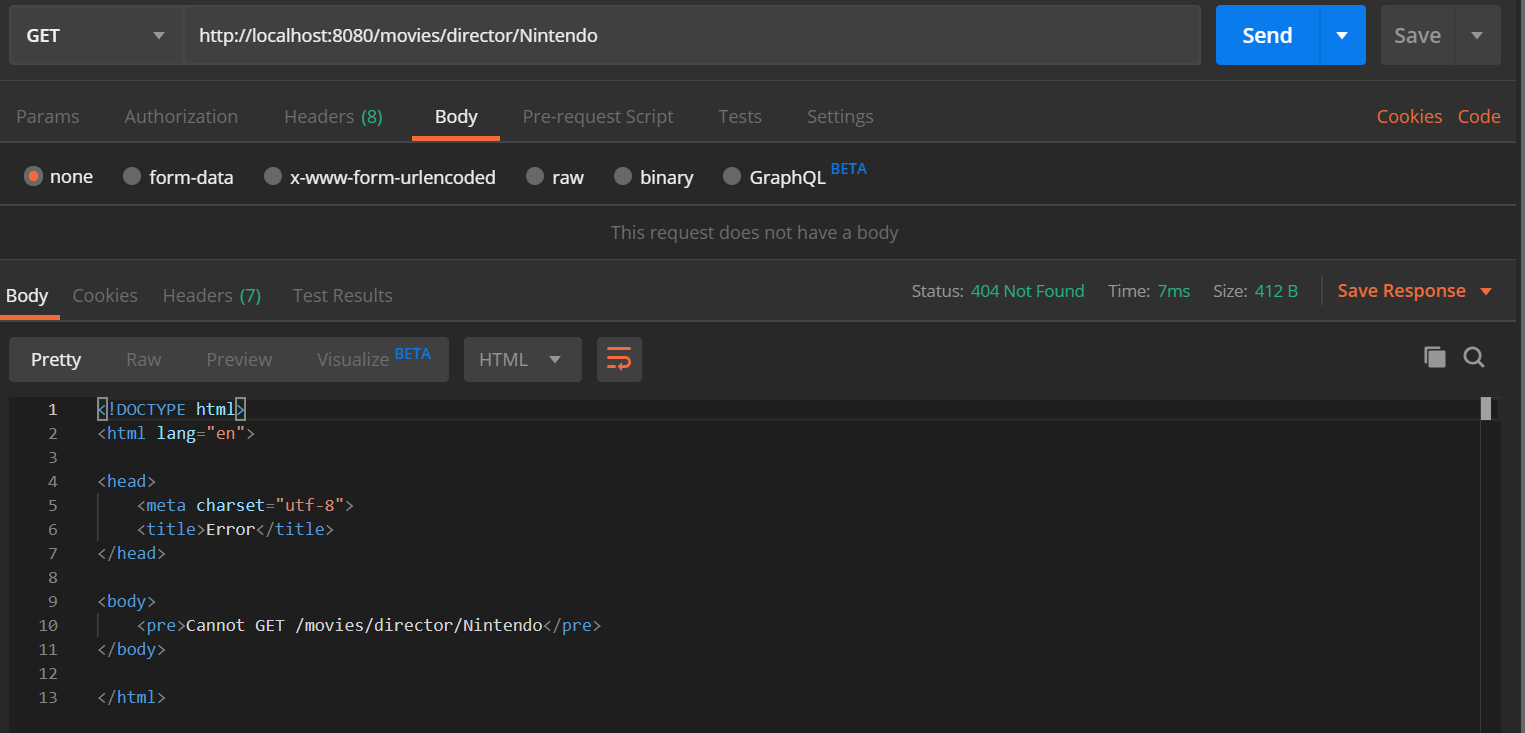
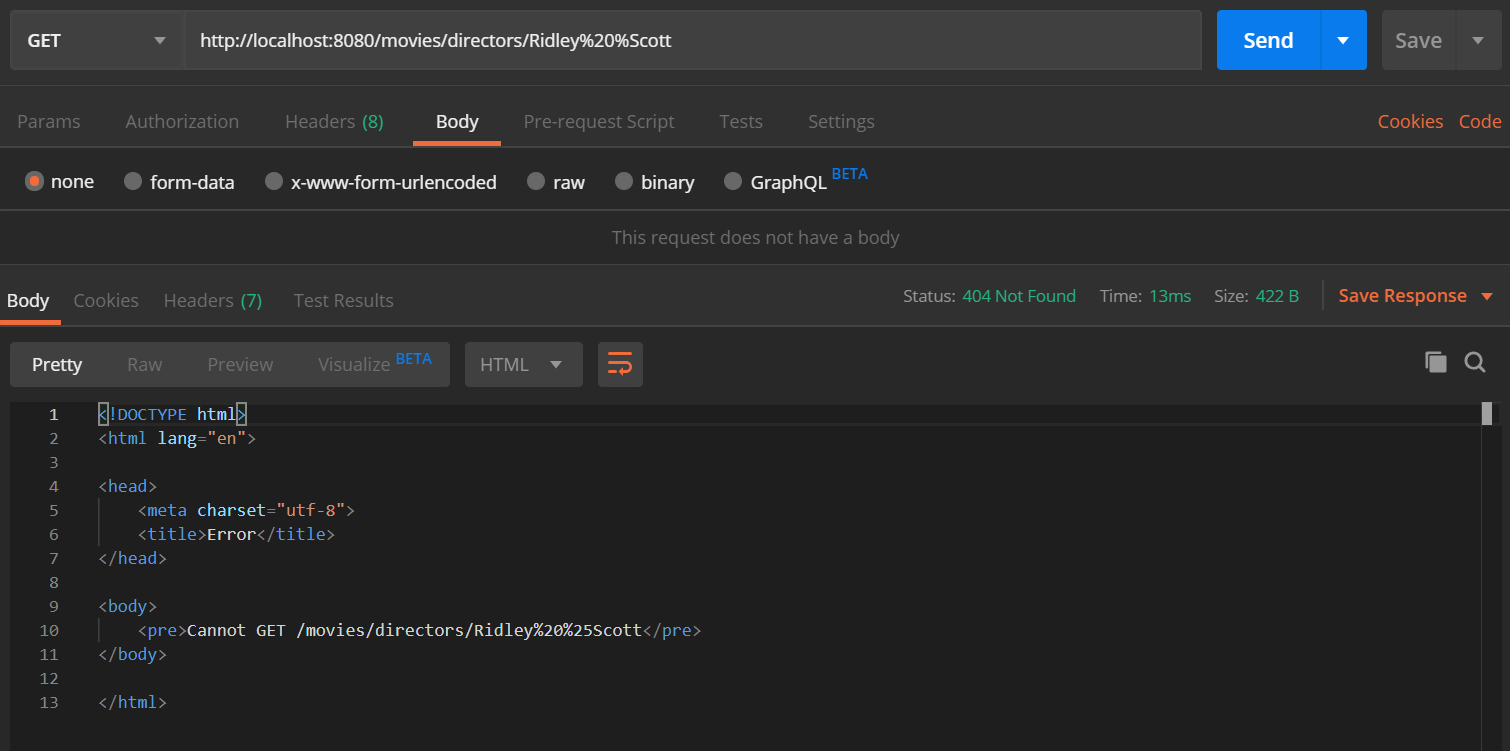
update 2.8 screenshots

diff --git a/index2.8.js b/index2.8.js
@@ -17,7 +17,7 @@ const app = express();
 app.use(express.static('public'));
 app.use(bodyParser.json());
 
-// let TopMovies = [ {
+// let Movies = [ {
 //   id: 1,
 //   title: 'Pokemon the Movie', //placeholder for testing
 //   clases: {
@@ -104,7 +104,7 @@ app.use(bodyParser.json());
 
 // Return a list of ALL movies to the user
 app.get("/movies", function(req, res) {
-  TopMovies.find()
+  Movies.find()
     .then(function(movies) {
       res.status(201).json(movies);
     }).catch(function(error) {
@@ -115,21 +115,21 @@ app.get("/movies", function(req, res) {
 
 // Return data (description, genre, director, image URL, whether it’s featured or not) about a single movie by title to the user
 app.get("/movies/:title", (req, res) => {
-  res.json(TopMovies.find( (movie) =>
+  res.json(Movies.find( (movie) =>
     { return movie.title === req.params.title   }));
     res.send("Successful GET request returning data on a single movie");
 });
 
 // Return data about a genre (description) by name/title (e.g., “Thriller”)
-app.get("/genre/:name", (req, res) => {
-  res.json(TopMovies.find( (genre) =>
+app.get("/movies/genre/:name", (req, res) => {
+  res.json(Movies.find( (genre) =>
     { return genre.name === req.params.name
     }));
   res.send("Successful GET request returning data on a genre of a single movie");
 });
 // Return data about a director (bio, birth year, death year) by name
-app.get("/director/:director", (req, res) => {
-  res.json(TopMovies.find( (director) =>
+app.get("/movies/director/:director", (req, res) => {
+  res.json(Movies.find( (director) =>
     { return director.name === req.params.name   }));
   res.send("Successful GET request returning data on a director of a single movie");
 });
